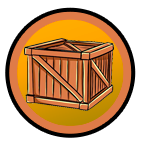
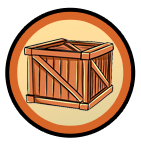
Fix syntax errors, restore Bot AI logic, and fix dying animation

diff --git a/js/BotManager.js b/js/BotManager.js
@@ -240,25 +240,26 @@ triggerAction(type, target = null, reason = "") {
 
     // Comprueba si el bot necesita priorizar la supervivencia (curación o energía) antes de cualquier otra acción
     evaluateSurvivalOverride(bot) {
-        let isCritical = bot.hp < bot.maxHp * 0.40;
-        if (!isCritical) return false;
-
         const pIndex = this.gameState.players.indexOf(bot);
         if (pIndex === -1) return false;
 
-        // 1. Sanador: si tiene energía, usar rol para curarse
+        // 1. Sanador: curación proactiva si tiene energía y baja del 90% de vida
         if (bot.role && bot.role.id === 'sanador' && bot.energy > 0) {
-            let healNeeded = bot.maxHp - bot.hp;
-            let energyToUse = Math.min(bot.energy, healNeeded);
-            if (energyToUse > 0) {
-                this.gameState.addLog(`🔷 <strong>${bot.name}</strong> está en estado crítico de PV y usa su rol de Sanador para curarse.`);
-                for (let i = 0; i < energyToUse; i++) {
-                    this.gameState.useRoleAbility(pIndex, 'self');
+            if (bot.hp <= bot.maxHp * 0.90) {
+                let healNeeded = bot.maxHp - bot.hp;
+                let energyToUse = Math.min(bot.energy, healNeeded);
+                if (energyToUse > 0) {
+                    this.gameState.addLog(`🚑 <strong>${bot.name}</strong> aprovecha su energía sobrante y usa su rol de Sanador para curarse.`);
+                    for (let i = 0; i < energyToUse; i++) {
+                        this.gameState.useRoleAbility(pIndex, 'self');
+                    }
+                    if (typeof window.updateUI === 'function') window.updateUI();
                 }
-                if (typeof window.updateUI === 'function') window.updateUI();
-                isCritical = bot.hp < bot.maxHp * 0.40;
             }
         }
+
+        let isCritical = bot.hp < bot.maxHp * 0.40;
+        if (!isCritical) return false;
 
         // 2. Compra de pociones (Oleada 3 o superior)
         let hpShortfall = bot.maxHp - bot.hp;
@@ -861,12 +862,33 @@ triggerAction(type, target = null, reason = "") {
         return true; // Nivel 1 no tiene requisitos mínimos
     }
 
+    getEquipmentLimits(bot) {
+        const weaponsCount = bot.equipped.filter(eq => eq.type === 'ataque' || eq.id === 'espada_inicial').length;
+        const healsCount = bot.equipped.filter(eq => eq.type === 'curacion').length;
+        const shieldCount = bot.equipped.filter(eq => eq.type === 'escudos' || eq.id === 'escudo_inicial').length;
+
+        const maxWeapons = 4; // Límite absoluto
+        
+        // REGLA 1: "Nunca podrá comprar una 2da curación si no ha comprado un escudo, etc."
+        // REGLA 2: "Compra ataque, después cure, después escudo."
+        // Al restar -1 a weaponsCount obligamos a que el bot TENGA que comprar un arma antes de poder comprar curación.
+        const maxHeals = Math.min(weaponsCount - 1, shieldCount);
+        
+        // REGLA 3: Respetando el máximo de las cartas de ataque.
+        // El escudo no puede superar a las armas, y solo se desbloquea si ya compramos la curación correspondiente.
+        const maxShields = Math.min(weaponsCount, healsCount + 1);
+
+        return {
+            weaponsCount, healsCount, shieldCount,
+            maxWeapons, maxHeals, maxShields
+        };
+    }
+
     getMissingEquipmentType(player) {
         const offensivePotential = this.getPlayerOffensivePotential(player);
         const needsOffensive = (player.level === 2 && offensivePotential < 10) || (player.level === 3 && offensivePotential < 15);
 
-        const isSanador = player.role && player.role.id === 'sanador';
-        const isProtector = player.role && player.role.id === 'protector';
+        const limits = this.getEquipmentLimits(player);
 
         if (needsOffensive) {
             // Si nos podemos permitir la carta de ataque, compramos la de ataque primero
@@ -875,51 +897,27 @@ triggerAction(type, target = null, reason = "") {
                 return 'ataque';
             }
             
-            const weaponsCount = player.equipped.filter(eq => eq.type === 'ataque' || eq.id === 'espada_inicial').length;
-            const healsCount = player.equipped.filter(eq => eq.type === 'curacion').length;
-            const shieldCount = player.equipped.filter(eq => eq.type === 'escudos' || eq.id === 'escudo_inicial').length;
-            
-            // Solo si no nos podemos permitir la de ataque, miramos si hay una híbrida de curación o escudo que sí nos podamos permitir y que no desequilibre nuestro inventario
+            // Prioridad 1: Curación híbrida (si no hemos superado el límite de eslabones)
             const topCuracion = this.gameState.market['curacion'] && this.gameState.market['curacion'].length > 0 ? this.gameState.market['curacion'][0] : null;
-            const maxHeals = weaponsCount + (isSanador ? 2 : 1);
-            if (topCuracion && this.canDealDamage(topCuracion) && player.mo >= topCuracion.cost && healsCount < maxHeals) {
+            if (topCuracion && this.canDealDamage(topCuracion) && player.mo >= topCuracion.cost && limits.healsCount < limits.maxHeals) {
                 return 'curacion';
             }
+            
+            // Prioridad 2: Escudo híbrido (si no hemos superado el límite de eslabones)
             const topEscudos = this.gameState.market['escudos'] && this.gameState.market['escudos'].length > 0 ? this.gameState.market['escudos'][0] : null;
-            const maxShields = weaponsCount + (isProtector ? 2 : 1);
-            if (topEscudos && this.canDealDamage(topEscudos) && player.mo >= topEscudos.cost && shieldCount < maxShields) {
+            if (topEscudos && this.canDealDamage(topEscudos) && player.mo >= topEscudos.cost && limits.shieldCount < limits.maxShields) {
                 return 'escudos';
             }
             return 'ataque';
         }
 
-        const targetLevel = Math.max(player.level, this.gameState.battlefield.waveLevel);
-        const nonStarting = player.equipped.filter(eq => eq.type !== 'inicial');
-        const weapons = nonStarting.filter(eq => eq.type === 'ataque').length;
-        const heals = nonStarting.filter(eq => eq.type === 'curacion').length;
-        const shields = nonStarting.filter(eq => eq.type === 'escudos').length;
-
-        if (targetLevel === 2) {
-            const hasWeapon = weapons >= 1;
-            const hasDamageHeal = player.equipped.some(eq => eq.type !== 'inicial' && this.isHeal(eq) && this.canDealDamage(eq));
-            if (!hasWeapon && !hasDamageHeal) {
-                return 'ataque'; // prioriza ataque si no tiene ninguno de los dos
-            }
-        } else if (targetLevel === 3) {
-            if (weapons === 0) return 'ataque';
-            if (heals === 0) return 'curacion';
-        } else if (targetLevel >= 4) {
-            if (weapons < 2) return 'ataque';
-            if (heals < 1 && shields < 1) {
-                return 'curacion';
-            }
-            if (heals >= 1 && shields === 0 && heals < 2) {
-                return 'escudos';
-            }
-            if (shields >= 1 && heals === 0 && shields < 2) {
-                return 'curacion';
-            }
-        }
+        // Fuera de emergencias ofensivas, seguir la cadena de compra estricta
+        if (limits.weaponsCount < 2) return 'ataque'; // Early game priority
+        
+        if (limits.healsCount < limits.maxHeals) return 'curacion';
+        if (limits.shieldCount < limits.maxShields) return 'escudos';
+        if (limits.weaponsCount < limits.maxWeapons) return 'ataque';
+        
         return null;
     }
 
@@ -1139,26 +1137,13 @@ performMarketTurn(bot) {
             const isProtector = bot.role && bot.role.id === 'protector';
             const isGuerreroOrMago = bot.role && (bot.role.id === 'guerrero' || bot.role.id === 'mago');
 
+            const limits = this.getEquipmentLimits(bot);
+            
             const canBuy = (type) => this.gameState.market[type] && this.gameState.market[type].length > 0 && bot.mo >= this.gameState.market[type][0].cost;
             const buyIfPossible = (type) => {
-                // Contar equipamiento por categoría original más iniciales
-                const weaponsCount = bot.equipped.filter(eq => eq.type === 'ataque' || eq.id === 'espada_inicial').length;
-                const healsCount = bot.equipped.filter(eq => eq.type === 'curacion').length;
-                const shieldCount = bot.equipped.filter(eq => eq.type === 'escudos' || eq.id === 'escudo_inicial').length;
-
-                // Evitar desequilibrios (ej: no acaparar curaciones/escudos si no se tienen suficientes armas)
-                if (type === 'ataque') {
-                    const maxWeapons = 4;
-                    if (weaponsCount >= maxWeapons) return false;
-                }
-                if (type === 'curacion') {
-                    const maxHeals = weaponsCount;
-                    if (healsCount >= maxHeals) return false;
-                }
-                if (type === 'escudos') {
-                    const maxShields = weaponsCount;
-                    if (shieldCount >= maxShields) return false;
-                }
+                if (type === 'ataque' && limits.weaponsCount >= limits.maxWeapons) return false;
+                if (type === 'curacion' && limits.healsCount >= limits.maxHeals) return false;
+                if (type === 'escudos' && limits.shieldCount >= limits.maxShields) return false;
                 if (canBuy(type)) {
                     const card = this.gameState.market[type][0];
                     const hasCard = bot.equipped.some(eq => eq.id === card.id);
@@ -1496,7 +1481,7 @@ performCombatTurn(bot) {
             const plannedKills = planResult.goblinsKilled;
 
             // Lógica de relanzamiento de dados negros (antes de asignar ningún dado, desactivado en fase de calambres)
-            const dieToReroll = !isCrampPhase ? availableDice.find(d => d.type === 'black' && !d.rerolled && this.shouldRerollBlackDie(d, bot, plannedAssignments, plannedKills)) : null;
+            const dieToReroll = !isCrampPhase ? availableDice.find(d => d.type === 'black' && !d.rerolled && this.shouldRerollBlackDie(d, bot, plannedAssignments, plannedKills, planResult.score)) : null;
             if (dieToReroll) {
                 console.log("[BotManager] Decided to reroll black die:", dieToReroll.id);
                 this.isActing = true;
@@ -1795,14 +1780,18 @@ calculateEquipPower(eq, bot) {
                     if (a.level !== b.level) return a.level - b.level; // Menor nivel primero
                     return a.currentHp - b.currentHp; // Menor vida primero
                 } else {
-                    // Si buscamos combate normal, priorizamos recompensas, nivel y vida
+                    // Si buscamos combate normal, priorizamos recompensas, luego DA├æO (para mitigar), y vida
                     const aCat = this.getGoblinRewardCategory(a, bot);
                     const bCat = this.getGoblinRewardCategory(b, bot);
                     if (aCat !== bCat) return bCat - aCat;
                     
-                    if (a.level !== b.level) {
-                        return b.level - a.level;
-                    }
+                    let dmgA = this.getGoblinDamageProfile(a);
+                    let dmgB = this.getGoblinDamageProfile(b);
+                    let totalDmgA = dmgA.normal + dmgA.direct;
+                    let totalDmgB = dmgB.normal + dmgB.direct;
+
+                    if (totalDmgA !== totalDmgB) return totalDmgB - totalDmgA;
+
                     return a.currentHp - b.currentHp;
                 }
             });
@@ -2075,42 +2064,96 @@ calculateEquipPower(eq, bot) {
     }
 
     // Decide si debe volver a lanzar un dado negro según su utilidad actual
-    shouldRerollBlackDie(die, bot, plannedAssignments = {}, plannedKills = 0) {
+    // Decide si debe volver a lanzar un dado negro según su utilidad actual y probabilidad
+    shouldRerollBlackDie(die, bot, plannedAssignments = {}, plannedKills = 0, plannedScore = 0) {
         if (die.type !== 'black' || die.rerolled || die.isCramped) return false;
         
-        const allGoblinsDead = plannedKills === (this.gameState.currentCombat && this.gameState.currentCombat.goblins ? this.gameState.currentCombat.goblins.length : 0);
+        // --- 1. Evaluar nuestro plan actual (sin relanzar) ---
+        const currentScore = plannedScore || 0; // plannedScore debe venir por parámetro, pero si no, usamos 0
+        const currentHp = bot.hp - (plannedAssignments.damageTaken || 0);
         
-        if (die.value <= 2) {
-            let reasonToKeep = false;
+        // Simularemos los 6 posibles resultados del dado si lo relanzamos
+        let betterScoreCount = 0;
+        let worseScoreCount = 0;
+        let betterSurvivalCount = 0;
+        let deathCount = 0;
+        
+        // Extraemos los dados disponibles sin el dado negro actual
+        const availableDice = [];
+        if (this.gameState.currentCombat && this.gameState.currentCombat.dice && this.gameState.currentCombat.dice.black) {
+            this.gameState.currentCombat.dice.black.forEach(d => {
+                if (d.id !== die.id && !d.assignedTo && !d.isCramped) availableDice.push(d);
+            });
+        }
+        
+        const goblins = this.gameState.currentCombat ? this.gameState.currentCombat.goblins : [];
+        if (goblins.length === 0) return false;
+
+        // Simulador rápido para los 6 resultados
+        for (let v = 1; v <= 6; v++) {
+            let simDie = { ...die, value: v };
+            let simDice = [...availableDice, simDie];
             
+            // Evaluamos el turno con este universo posible
+            let simResult = this.evaluateOptimalCombatTurn(simDice, goblins, bot, false);
+            
+            // Calculamos daño recibido en la simulación
+            let simDmgTaken = 0;
+            goblins.forEach(g => {
+                if (!simResult.assignments[`kill-${g.uid}`]) {
+                    let rem = this.getGoblinRemainingDamage(g);
+                    simDmgTaken += rem.normal + rem.direct;
+                }
+            });
+            let simHp = bot.hp - simDmgTaken;
+            
+            if (simHp <= 0) deathCount++;
+            if (simHp > currentHp) betterSurvivalCount++;
+            
+            if (simResult.score > currentScore) betterScoreCount++;
+            if (simResult.score < currentScore) worseScoreCount++;
+        }
+        
+        // --- 2. Toma de decisión basada en probabilidad y riesgo ---
+        
+        // Regla 1: Supervivencia prioritaria. Si relanzar nos mata en más de 2/6 universos y actualmente sobrevivimos, NO relanzar.
+        if (currentHp > 0 && deathCount >= 3) {
+            console.log(`[BotManager] Reroll black die ${die.id} DENEGADO: Riesgo inaceptable de muerte (${deathCount}/6).`);
+            return false;
+        }
+        
+        // Regla 2: Mejora garantizada o altamente probable.
+        // Si en 4 de 6 casos (66%+) mejoramos nuestra puntuación, relanzamos.
+        if (betterScoreCount >= 4) {
+            console.log(`[BotManager] Reroll black die ${die.id} APROBADO: Alta probabilidad de mejora (${betterScoreCount}/6).`);
+            return true;
+        }
+        
+        // Regla 3: Si nuestro dado actual es un 1 o 2, suele ser inútil salvo para escudos específicos.
+        if (die.value <= 2) {
+            let neededForShield = false;
             bot.equipped.forEach(eq => {
-                if (!eq.isActive) return;
-                
-                const limit = (eq.isBroken && eq.broken ? eq.broken.limit : eq.limit) || '';
-                const extraStr = ((eq.isBroken && eq.broken ? eq.broken.extra : eq.extra) || '').toLowerCase();
-                
-                if (eq.isBroken) {
-                    if (limit === 'MAX 2' && die.value <= 2) reasonToKeep = true;
-                    if (limit === 'MAX 3' && die.value <= 3) reasonToKeep = true;
-                    if (limit === 'PAR' && die.value === 2) reasonToKeep = true;
-                    if (limit === 'IMPAR' && die.value === 1) reasonToKeep = true;
-                }
-                
-                if (extraStr.includes(`con un ${die.value}:`)) {
-                    reasonToKeep = true;
-                }
-                
-                if (allGoblinsDead && limit.includes('MAX')) {
-                    let maxVal = parseInt(limit.replace('MAX', '').trim());
-                    if (!isNaN(maxVal) && maxVal <= 3 && die.value <= maxVal) {
-                        reasonToKeep = true;
-                    }
+                if (eq.isActive && eq.type === 'escudos') {
+                    const limit = (eq.isBroken && eq.broken ? eq.broken.limit : eq.limit) || '';
+                    if (limit === 'MAX 2' && die.value <= 2) neededForShield = true;
+                    if (limit === 'PAR' && die.value === 2) neededForShield = true;
+                    if (limit === 'IMPAR' && die.value === 1) neededForShield = true;
                 }
             });
             
-            return !reasonToKeep;
+            if (!neededForShield) {
+                console.log(`[BotManager] Reroll black die ${die.id} APROBADO: Dado inútil actualmente, cualquier cosa es mejor.`);
+                return true;
+            }
         }
         
+        // Regla 4: Supervivencia desesperada.
+        // Si en el plan actual morimos, relanzamos SIEMPRE buscando un milagro, salvo que no haya ningún mundo donde sobrevivamos.
+        if (currentHp <= 0 && deathCount < 6) {
+            console.log(`[BotManager] Reroll black die ${die.id} APROBADO: Supervivencia desesperada. Posibilidades de salvarse: ${6 - deathCount}/6.`);
+            return true;
+        }
+
         return false;
     }
 

diff --git a/index.html b/index.html
@@ -262,7 +262,7 @@
 
                 <div id="game-version-badge"
                     style="position: absolute; top: 28px; left: 70px; z-index: 10; font-family: 'Cinzel', serif; font-size: 0.85rem; font-weight: bold; color: var(--gold); background: rgba(10, 10, 15, 0.8); padding: 4px 12px; border: 1px solid rgba(212, 175, 55, 0.4); border-radius: 20px; box-shadow: 0 2px 10px rgba(0,0,0,0.5); backdrop-filter: blur(5px); letter-spacing: 1px;">
-                    v.3.80
+                    v.3.81
                 </div>
 
                 <h2 class="setup-title" style="margin-top: 0; margin-bottom: 10px; font-size: 2.2rem; text-align: center;">Configura tu Grupo</h2>
@@ -830,8 +830,8 @@
     <script src="js/UIManager.js?v=3.65"></script>
     <script src="js/DragDropManager.js?v=3.65"></script>
     <script src="js/CombatManager.js?v=3.65"></script>
-    <script src="js/BotManager.js?v=3.79"></script>
-    <script src="js/app.js?v=3.65"></script>
+    <script src="js/BotManager.js?v=3.81"></script>
+    <script src="js/app.js?v=3.66"></script>
     <!-- DEBUG COMBAT MODAL -->
     <div id="debug-combat-modal" class="hidden" style="position: fixed; top: 60px; right: 20px; width: 550px; max-height: 85vh; overflow: hidden; display: flex; flex-direction: column; text-align: left; border: 2px solid #ff3366; background: rgba(15, 10, 25, 0.95); box-shadow: 0 0 40px rgba(255, 51, 102, 0.4); border-radius: 15px; padding: 20px; z-index: 99999; backdrop-filter: blur(5px);">
         <div id="debug-combat-header" style="display: flex; justify-content: space-between; align-items: center; cursor: grab; padding-bottom: 5px; border-bottom: 1px solid rgba(255, 51, 102, 0.3);">

diff --git a/js/app.js b/js/app.js
@@ -2675,6 +2675,16 @@ if (btnToggleMenu) {
       } else {
         menuCollapsible.style.display = 'none';
         btnToggleMenu.innerText = '◀';
+        
+        const logPanelEl = document.getElementById('log-panel');
+        if (logPanelEl && logPanelEl.style.display !== 'none') {
+            logPanelEl.style.display = 'none';
+        }
+        
+        const debugModalEl = document.getElementById('debug-combat-modal');
+        if (debugModalEl && !debugModalEl.classList.contains('hidden')) {
+            debugModalEl.classList.add('hidden');
+        }
       }
     }
   });
@@ -4280,7 +4290,8 @@ function renderBattlefield() {
     gobEl.style.backgroundImage = `url('${imageUrl}')`;
 
     if (goblin.isDying) {
-      gobEl.classList.add(goblin.gaveReward ? 'dying-reward' : 'dying');
+      const hasRealReward = goblin.gaveReward && (goblin.rewardMo > 0 || goblin.rewardPex > 0);
+      gobEl.classList.add(hasRealReward ? 'dying-reward' : 'dying');
       gobEl.innerHTML = `<div class="goblin-hp" style="background: var(--accent-red); color: white;">0</div>`;
     } else {
       const isInvulnerable = gameState.isGoblinInvulnerable(goblin);
